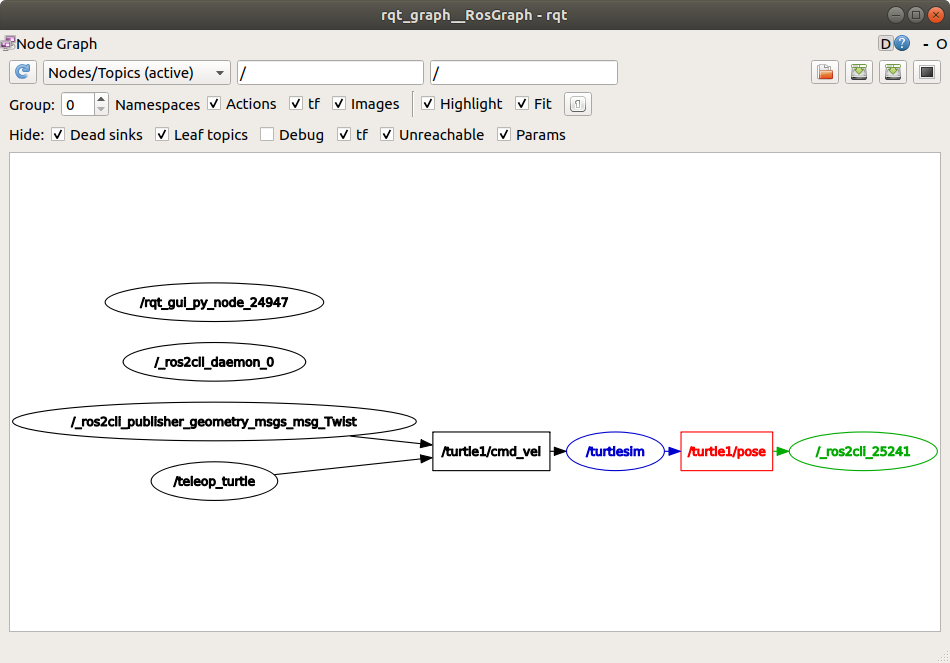
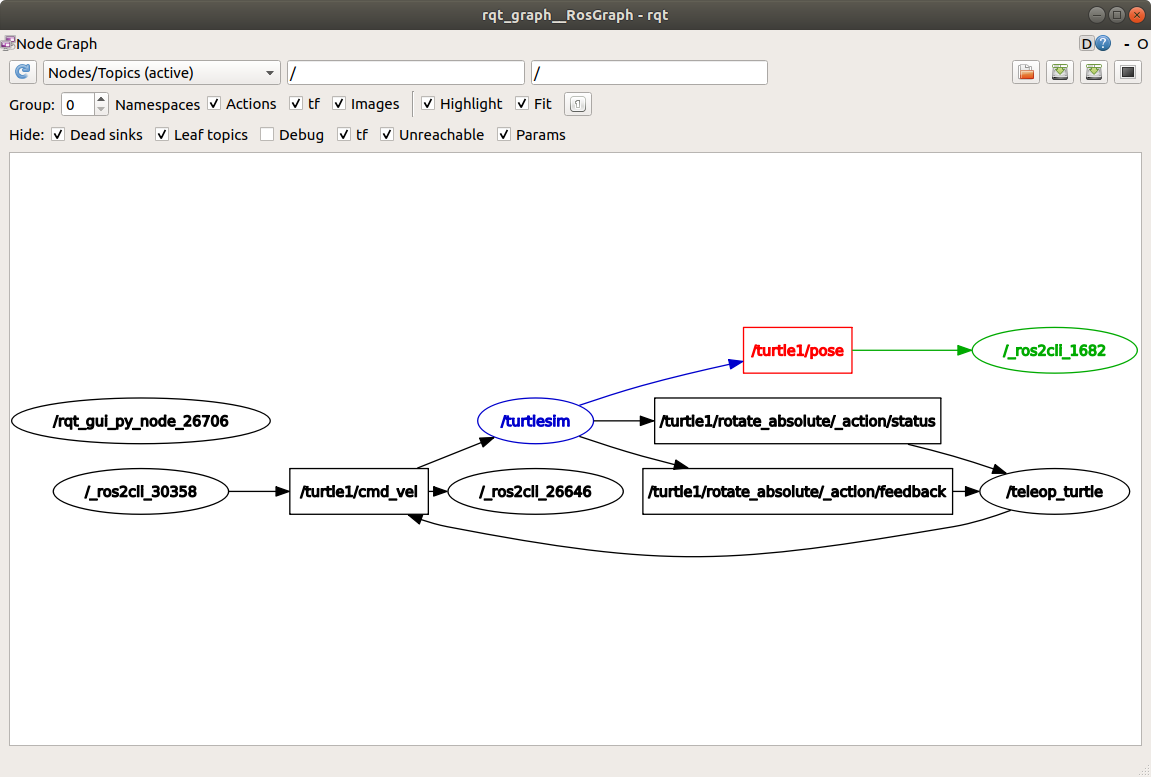
Update topics tutorial w/rqt_graph fix (#451)
* Update topics tutorial w/rqt_graph fix

* remove unused images

* keep original image names

* missed an image name

diff --git a/source/Tutorials/Topics/Understanding-ROS2-Topics.rst b/source/Tutorials/Topics/Understanding-ROS2-Topics.rst
@@ -57,7 +57,7 @@ Recall from the previous tutorial that the names of these nodes are ``/turtlesim
 
 Throughout this tutorial, we will use ``rqt_graph`` to visualize the changing nodes and topics, as well as the connections between them.
 
-The :ref:`turtlesim tutorial <Turtlesim>` tells you how to install rqt and all its plugins, including rqt_graph.
+The :ref:`turtlesim tutorial <Turtlesim>` tells you how to install rqt and all its plugins, including ``rqt_graph``.
 
 To run rqt_graph, open a new terminal and enter the command:
 
@@ -67,17 +67,10 @@ To run rqt_graph, open a new terminal and enter the command:
 
 You can also open rqt_graph by opening rqt and selecting **Plugins** > **Introspection** > **Nodes Graph**.
 
-Your graph will be blank.
-Press the refresh button to the left of the dropdown list to see your two nodes.
-
-To see the topic connecting them, choose **Nodes/Topics (active)** from the dropdown list.
-Additionally, the number of **Namespaces** should be 0.
-
-.. todo: the above 4 sentences can be removed once the “nodes only” problem is fixed
-
 .. image:: rqt_graph.png
 
-You should see the above nodes and topic, and if you hover your mouse over any of the elements, the color highlighting as well.
+You should see the above nodes and topic, as well as two actions around the periphery of the graph (let's ignore those for now).
+If you hover your mouse over the topic in the center, you'll see the color highlighting like in the image above.
 
 The graph is depicting how the ``/turtlesim`` node and the ``/teleop_turtle`` node are communicating with each other over a topic.
 The ``/teleop_turtle`` node is publishing data (the keystrokes you enter to move the turtle around) to the ``/turtle1/cmd_vel`` topic, and the ``/turtlesim`` node is subscribed to that topic to receive the data.
@@ -157,7 +150,7 @@ Now return to rqt_graph and uncheck the **Debug** box.
 
 .. image:: debug.png
 
-``/_ros2cli_22409`` is the node created by the ``echo`` we just ran (the number will change).
+``/_ros2cli_26646`` is the node created by the ``echo`` we just ran (the number will change).
 Now you can see that the publisher is publishing data over the ``cmd_vel`` topic, and two subscribers are subscribed.
 
 5 ros2 topic info
@@ -277,7 +270,7 @@ The difference here is the removal of the ``--once`` option and the addition of 
 .. image:: pub_stream.png
 
 You can refresh rqt_graph to see what’s happening graphically.
-You will see the ``ros 2 topic pub ...`` node (``/_ros2cli_publisher_…``) is publishing over the ``/turtle1/cmd_vel`` topic, and is being received by both the ``ros2 topic echo ...`` node (``/_ros2cli_24…``) and the ``/turtlesim`` node now.
+You will see the ``ros 2 topic pub ...`` node (``/_ros2cli_30358``) is publishing over the ``/turtle1/cmd_vel`` topic, and is being received by both the ``ros2 topic echo ...`` node (``/_ros2cli_26646``) and the ``/turtlesim`` node now.
 
 .. image:: rqt_graph2.png
 
